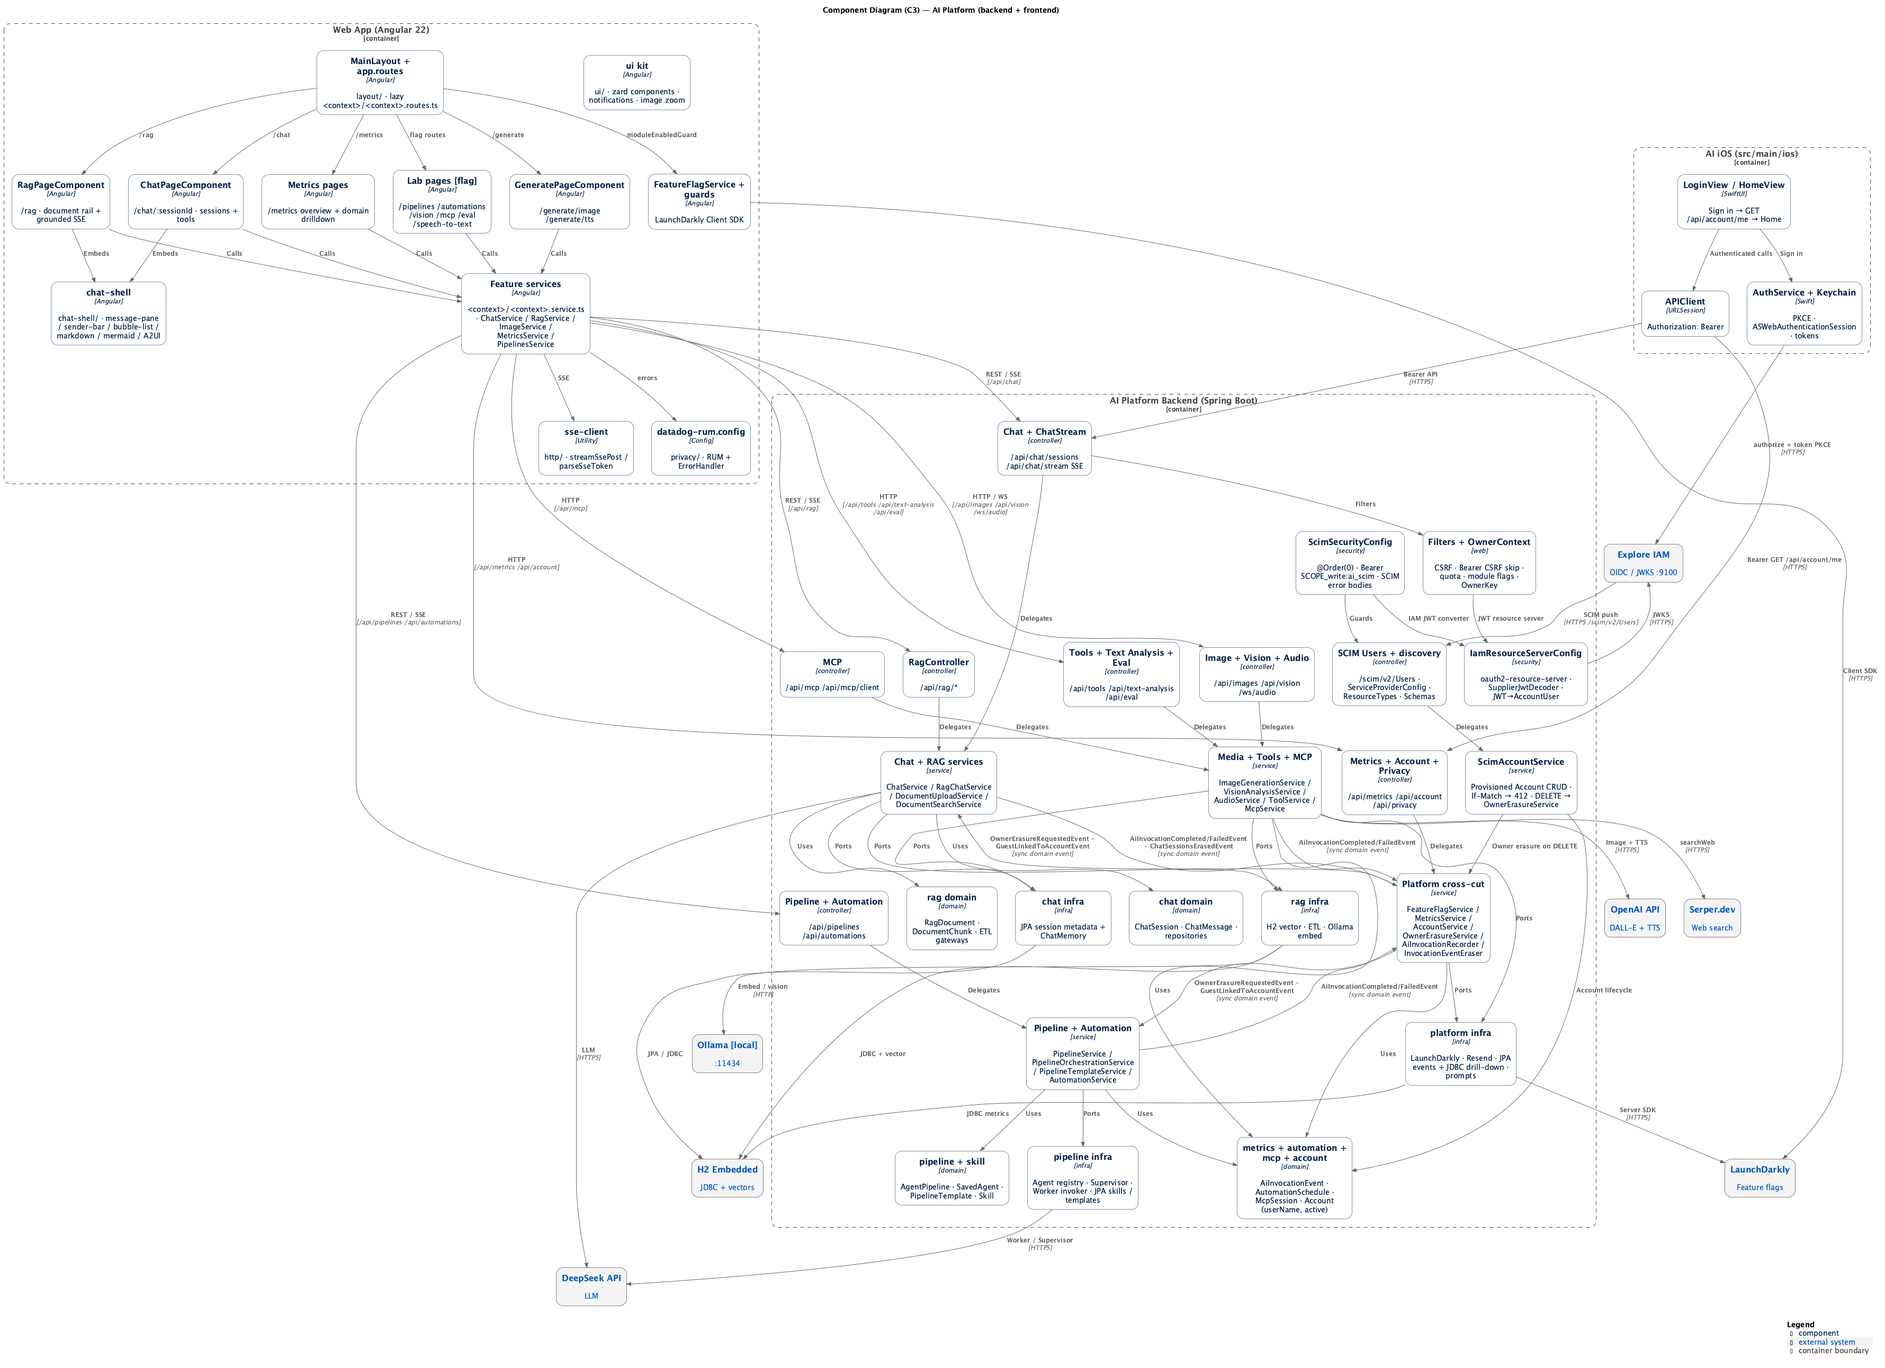
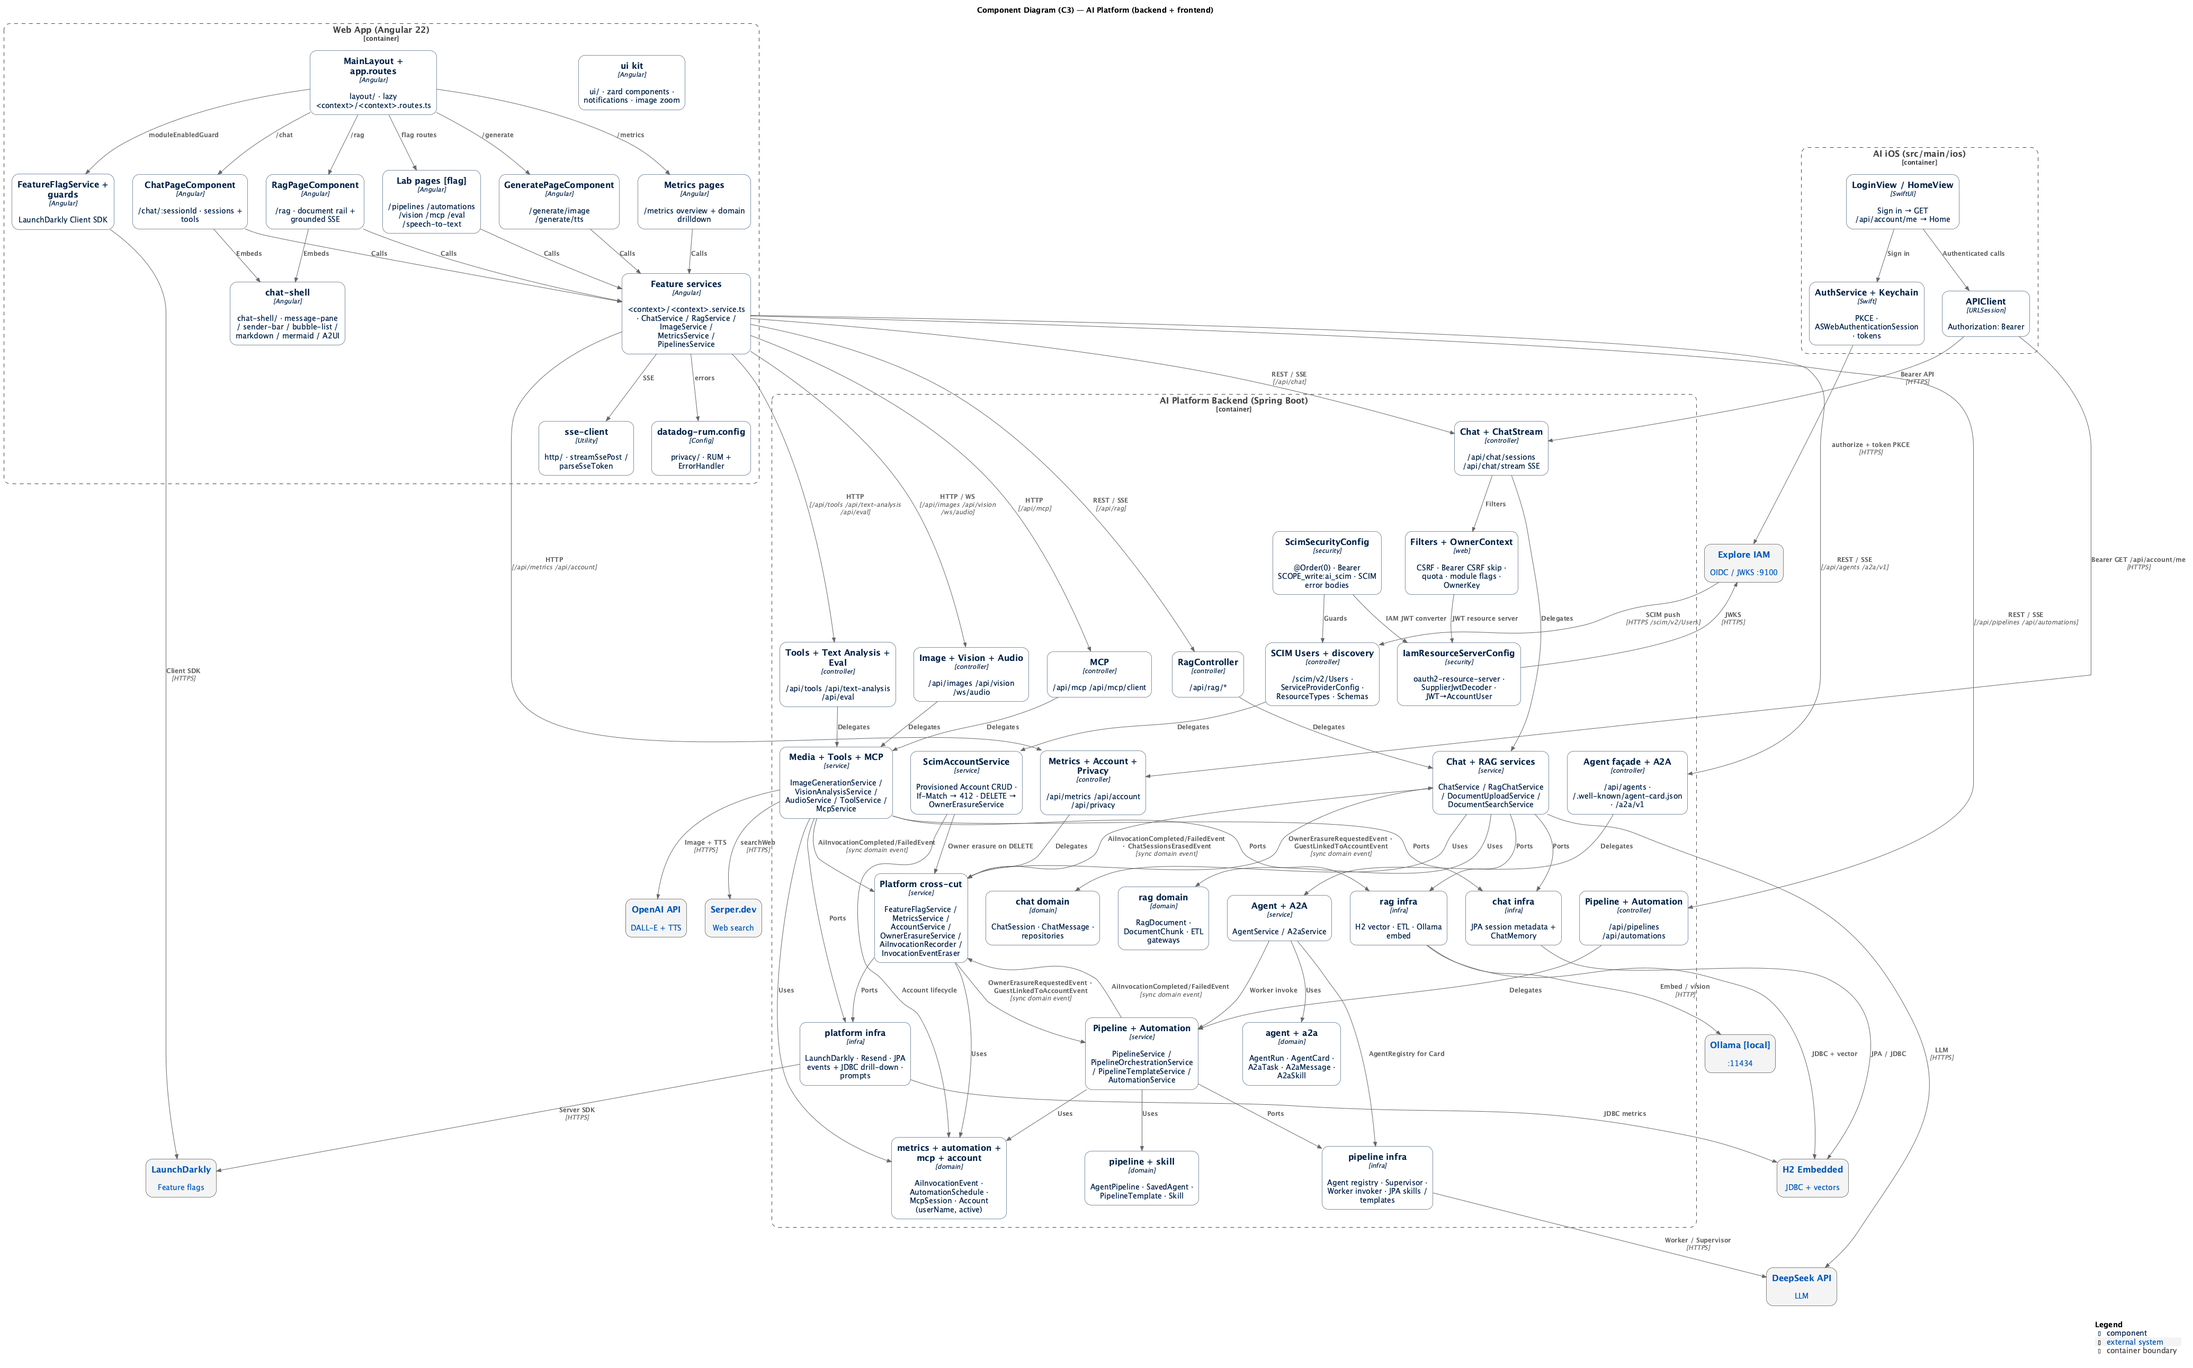
Document baseline Agents and A2A living docs (#672)
Sibling products need shared Glossary and C4 language for the
Agent façade and A2A Card before runtime APIs land.

References:

- https://a2a-protocol.org/latest/specification/
- https://a2a-protocol.org/latest/topics/what-is-a2a/
- https://c4model.com/

diff --git a/docs/Glossary.md b/docs/Glossary.md
@@ -54,6 +54,8 @@ Classes (entities, value objects, aggregates, services, DTOs) are nouns for what
 | ---------------- | --------- | ----------------- | ----------------------- | ----------------------------------------- | ----------------------------- | ------------------------------------- |
 | Chat             | 对话        | `com.ai.chat`     | `/chat`, `/privacy`     | `/api/chat`, `/api/chat/sessions`, `/api/privacy` | —                             | UI under `app/chat/` + `app/privacy/`  |
 | Pipeline         | 工作流画布      | `com.ai.pipeline` | `/pipelines`            | `/api/pipelines`                          | `module-pipelines`            | Canvas DAG; per-node editable agent copies; multilingual builtin catalog |
+| Agent            | Agent 门面     | `com.ai.agent`    | —                       | `/api/agents`                             | `module-pipelines`            | Published Language for siblings; delegates to Pipeline workers; default type `research` |
+| A2A              | Agent2Agent    | `com.ai.a2a`      | —                       | `/.well-known/agent-card.json`, `/a2a/v1` | `module-pipelines`            | Minimal A2A Server (Agent Card + message:send / message:stream); peer to MCP |
 | Automation       | 定时自动化      | `com.ai.automation` | `/automations`        | `/api/automations`                        | `module-automations`          | Schedule saved workflows; email result summary |
 | Skill            | 技能指令包    | `com.ai.skill`    | `/skills`               | `/api/skills`                             | `module-skills`               | User-managed packs applied in Chat    |
 | RAG              | 知识问答      | `com.ai.rag`      | `/rag`                  | `/api/rag`                                | —                             | ETL interfaces in `domain.repository` |
@@ -79,6 +81,8 @@ Classes (entities, value objects, aggregates, services, DTOs) are nouns for what
 | ----------------- | ---------------- | ------------------------------- |
 | `/chat`, `/chat/:sessionId` | Chat      | `/api/chat`, `/api/chat/sessions`    |
 | `/pipelines`      | Pipeline         | `/api/pipelines`                |
+| —                 | Agent            | `/api/agents`                   |
+| —                 | A2A              | `/.well-known/agent-card.json`, `/a2a/v1` |
 | `/automations`    | Automation       | `/api/automations`              |
 | `/skills`         | Skill            | `/api/skills`                   |
 | `/generate`       | Generation       | —                               |
@@ -243,6 +247,8 @@ Shared persistence and aggregate bases. Feature modules inherit these types inst
 | Pipeline Orchestration   | 编排服务          | Runs Worker Agents according to a routing or pipeline plan    | Application Service | `PipelineOrchestrationService`                | Prefers node snapshot prompt/tools when present         |
 | Supervisor Router        | Supervisor 路由 | Chooses next Agent / subtasks for a user message              | Application    | `SupervisorRouter`, `SpringAiSupervisorRouter`     | Workers exclude supervisor               |
 | Worker Agent Invoker     | Worker 调用器    | Invokes a single Worker Agent with streaming                  | Application    | `WorkerAgentInvoker.invokeAgent`, `SpringAiWorkerAgentInvoker` | Tools from the `tools` whitelist                |
+| Agent Service            | Agent 门面服务   | Sibling-facing list and invoke for catalog Agent types        | Application    | `AgentService` (`com.ai.agent`)                    | Wraps Pipeline workers; no canvas graph required |
+| Default Agent Type       | 默认 Agent 类型  | Catalog type used when A2A skill is omitted                   | Convention     | `research`                                         | Documented for A2A Task mapping                 |
 | Tool Call Markup Filter  | 工具标记过滤器   | Strips DeepSeek DSML tool markup from model text              | Utility        | `ToolCallMarkupFilter`, `SanitizingChatMemory`     | Chat SSE, ChatMemory, Pipeline workers             |
 | Tool Call Loop Guard     | 工具循环守卫     | Allows datetime bridge then forces final answer after search; repairs DSML-only turns | Utility        | `ToolCallLoopGuard`, `ToolCallLoopGuardAdvisor`, `LoopGuardToolCallingManager` | Prevents DSML / phantom fetch after searchWeb   |
 | Routing Plan             | 路由计划          | Planned subtasks for Supervisor orchestration                 | Value Object   | `RoutingPlan`                                      | —                                               |
@@ -393,7 +399,7 @@ PROCESSING → READY
 
 ## 10. MCP | MCP
 
-Package: `com.ai.mcp` (Server + Client).
+Package: `com.ai.mcp` (Server + Client). MCP connects **one** Agent to tools and resources. Cross-agent collaboration uses **A2A** (§10.1), not MCP.
 
 
 | Preferred Term (English) | 中文        | Definition                                    | Type              | Code Mapping                         | Notes                          |
@@ -405,6 +411,22 @@ Package: `com.ai.mcp` (Server + Client).
 | MCP Session              | MCP 会话    | Active connection session to an MCP server    | Entity            | `McpSession`                         | Held by the MCP client in infra |
 | MCP Server Connection    | MCP 服务端连接 | Connection metadata to an external MCP server | Value Object      | `McpServerConnection`                | —                              |
 | MCP Chat                 | MCP 对话    | AI conversation initiated via MCP Client      | Use Case Behavior | `McpClientController.chat()`         | —                              |
+
+
+### 10.1 A2A | Agent2Agent
+
+Package: `com.ai.a2a`. Linux Foundation Agent2Agent Protocol v1.0 — peer to MCP. Opaque execution: Card declares skills only; tools and system prompts stay inside Explore AI.
+
+
+| Preferred Term (English) | 中文           | Definition                                                         | Type           | Code Mapping                                      | Notes |
+| ------------------------ | ------------ | ------------------------------------------------------------------ | -------------- | ------------------------------------------------- | ----- |
+| A2A Server               | A2A 服务端      | Serves Agent Card and message APIs for other agents                | Application    | `A2aService`, `A2aMessageController`              | HTTP+JSON binding |
+| Agent Card               | Agent 名片     | Self-describing manifest of name, skills, interfaces, security     | Value Object   | `AgentCard`                                       | `GET /.well-known/agent-card.json` (public) |
+| A2A Skill                | A2A 技能       | Declared capability on the Card; id maps to catalog Agent Type     | Value Object   | `A2aSkill`                                        | e.g. id `research` |
+| A2A Task                 | A2A 任务       | One baseline Agent run with status lifecycle                       | Entity         | `A2aTask`                                         | submitted → working → completed / failed |
+| A2A Message              | A2A 消息       | User or agent message with text (and optional) parts               | Value Object   | `A2aMessage`                                      | Text parts → Agent invoke message |
+| Send Message             | 发送消息         | Synchronous Task completion for one message                        | Use Case       | `POST /a2a/v1/message:send`                       | IAM Bearer required |
+| Stream Message           | 流式发送消息       | SSE Task status and artifact updates for one message               | Use Case       | `POST /a2a/v1/message:stream`                     | IAM Bearer required |
 
 
 ---
@@ -534,7 +556,8 @@ UI shell only (no dedicated Java package). Routes under `/generate` host **Image
 | Tool Callback                        | 工具回调    | Spring AI mechanism for LLM-initiated tool invocation      | Technical | `ToolCallback`, `McpToolCallbackRegistry`     | Bridges LLM and Tools               |
 | Advisor                              | 顾问      | Interceptor/enhancer in the ChatClient call chain          | Technical | Spring AI Advisors                            | e.g. structured output              |
 | Multimodal                           | 多模态     | Input combining text and other modalities (e.g. image)     | Technical | `VisionChatService`                           | Ollama qwen3.5 / qwen3-vl; see Appendix D **Vision Encoder** |
-| Model Context Protocol (MCP)         | 模型上下文协议 | Standard protocol for exposing Tools and Resources to LLMs | Protocol  | `McpServerToolsProvider`                          | Anthropic-initiated standard        |
+| Model Context Protocol (MCP)         | 模型上下文协议 | Standard protocol for exposing Tools and Resources to LLMs | Protocol  | `McpServerToolsProvider`                          | Anthropic-initiated standard; peer to A2A |
+| Agent2Agent Protocol (A2A)           | Agent 互操作协议 | Open standard for discovery and task messaging between opaque agents | Protocol | `com.ai.a2a` | Linux Foundation; Agent Card + Tasks |
 | Orchestrator                         | 编排器     | Agent that delegates tasks to specialized Subagents        | Pattern   | `.cursor/agents/orchestrator.md`              | Cursor agent routing (dev tooling)  |
 | Subagent                             | 子智能体    | Specialized Agent focused on a single responsibility       | Pattern   | `.cursor/agents/*.md`                         | e.g. business-analyst, market-analyst, developer |
 | Grounding                            | 事实锚定    | Constraining LLM answers to retrieved Source Documents     | Pattern   | `LocalizedRagPromptBuilder`, `RagChatService` | Reduces unsupported claims          |

diff --git a/docs/developer/c4-model/README.md b/docs/developer/c4-model/README.md
@@ -29,6 +29,7 @@ Source of truth: `.puml`。官方 C4: [c4model.com](https://c4model.com/)。库:
 | `C4-Dynamic-Chat-Tools.puml` | Dynamic | Chat 工具 SSE + A2UI 图表 |
 | `C4-Dynamic-IamNativeSignIn.puml` | Dynamic | AI iOS PKCE → IAM → Bearer `/api/account/me` → Home |
 | `C4-Dynamic-ScimProvisioning.puml` | Dynamic | Explore IAM → `/scim/v2/Users`（`write:ai_scim`）→ Account 生命周期 + 删除擦除 |
+| `C4-Dynamic-A2aMessage.puml` | Dynamic | A2A Client → Agent Card → `message:send` / `stream` → AgentService → Worker |
 
 > **Code vs Deployment**：C4 官方第 4 层是 **Code**（类与关系）。本仓 `C4-Deployment.puml` 是部署视图；领域类型总览见 `C4-Code-Domain-Model.puml`。图中 stereotype 表示约定，**没有**共享 Java `Entity`/`AggregateRoot` 基类。
 
@@ -88,8 +89,11 @@ Source of truth: `.puml`。官方 C4: [c4model.com](https://c4model.com/)。库:
 | [C4-Dynamic-Chat-Tools.puml](C4-Dynamic-Chat-Tools.puml) | Chat 工具调用 → SSE → A2UI 图表 |
 | [C4-Dynamic-IamNativeSignIn.puml](C4-Dynamic-IamNativeSignIn.puml) | AI iOS IAM PKCE 登录 → Bearer me → Home |
 | [C4-Dynamic-ScimProvisioning.puml](C4-Dynamic-ScimProvisioning.puml) | Explore IAM SCIM 推送 → `write:ai_scim` → 创建 / 替换 / 停用 / 删除并擦除 Account |
+| [C4-Dynamic-A2aMessage.puml](C4-Dynamic-A2aMessage.puml) | A2A Agent Card 发现 → IAM Bearer → Task → baseline Agent |
 
 ![C4-Dynamic-Rag-Ask](png/C4-Dynamic-Rag-Ask.png)
+
+![C4-Dynamic-A2aMessage](png/C4-Dynamic-A2aMessage.png)
 
 ---
 
@@ -100,7 +104,7 @@ Source of truth: `.puml`。官方 C4: [c4model.com](https://c4model.com/)。库:
 - **运行时**: Spring Boot 4.1 / Java 25 / Spring AI 2.0
 - **架构**: Clean Architecture（`domain/repository/`，非 Hexagonal `domain/port/`）
 - **端口**: dev **9000** / prod **8080** (Render `PORT`)
-- **子域 (13)**: Chat / Pipeline / Skill / RAG / Tools / Text Analysis (`textanalysis`) / Eval / Image / Image Analysis (`vision`) / Audio (TTS+ASR) / MCP Server / MCP Client / Metrics
+- **子域**: Chat / Pipeline / Agent façade / A2A / Skill / RAG / Tools / Text Analysis (`textanalysis`) / Eval / Image / Image Analysis (`vision`) / Audio (TTS+ASR) / MCP Server / MCP Client / Metrics
 - **持久化**: H2 嵌入式（会话元数据 `ChatSessionRepository` + 消息 `JdbcChatMemoryRepository` + 向量 + AI 调用事件 `ai_invocation_event`）
 - **JPA / Hibernate**: 归属聚合继承 `AbstractOwnerAwareEntity`（运行记录与调用事件继承 `AbstractOwnerAwareImmutable`）（`owner_key` NOT NULL，Liquibase `0.1-012` 回填遗留会话为 `c:legacy-orphan`）；领域仓储继承 Spring Data `Repository<T, ID>`，按归属读写以 `OwnerKey` 作为显式查询参数（如 `findByIdAndOwnerKey`），后台任务使用不带归属的查询；类型化 ID 映射原生 UUID 列；`AiInvocationEvent` 为 `@Immutable`；`Account` 以 `@NaturalId`（provider + subject）查找
 - **功能开关**: LaunchDarkly（`ModuleAccessFilter` + `FeatureFlagService`）
@@ -120,6 +124,17 @@ Source of truth: `.puml`。官方 C4: [c4model.com](https://c4model.com/)。库:
 | 画布图 SSE | `POST /api/pipelines/invoke/sse` | `PipelineOrchestrationService`；节点可带 `systemPrompt`/`tools` 快照 |
 
 Worker 定义来自 Pipeline 内置目录：`AgentTemplateCatalog`（`classpath:agent-templates/{lang}.json`）经 `CatalogAgentRegistry` 提供调色板种子；画布双击编辑的是**图内节点副本**。Classpath Agent Skills：`AgentSkillsRuntime`（`com.ai.common`，`app.agent-skills`）。
+
+### Agent façade + A2A（同 `module-pipelines`）
+
+Sibling / 外部 Agent 的 Published Language；不暴露 system prompt。默认 A2A skill / Agent Type：`research`。MCP 仍是工具协议（peer），不是跨 Agent 协议。
+
+| 能力 | API | 主要组件 |
+| --- | --- | --- |
+| 列表 / 详情 | `GET /api/agents`, `GET /api/agents/{type}` | `AgentController`, `AgentService` |
+| 同步 / SSE 调用 | `POST /api/agents/{type}/invoke`, `.../invoke/sse` | 委托 `PipelineService` |
+| Agent Card | `GET /.well-known/agent-card.json` | `AgentCardController`（公开） |
+| A2A Task | `POST /a2a/v1/message:send`, `.../message:stream` | `A2aMessageController`（IAM `write:ai_agent`） |
 
 ### Prompt Catalog（横切）
 

diff --git a/docs/product-owner/user-stories/E13-agent-a2a.md b/docs/product-owner/user-stories/E13-agent-a2a.md
@@ -1,0 +1,60 @@
+# E13 Agent façade + A2A
+
+← [用户故事地图](../User-Story-Map.md)
+
+## 背景
+
+Sibling 产品与外部 Agent 需要调用 Explore AI 的 baseline Agent，而不绑定 Pipeline 画布。Explore AI 提供 Published Language（`/api/agents`）与 Linux Foundation A2A Protocol v1.0 最小服务端（Agent Card + message:send / stream）。MCP 仍用于工具，不是跨 Agent 协议。
+
+---
+
+## US-40 调用 baseline Agent
+
+**As a** 兄弟系统开发者  
+**I want** 通过 `/api/agents` 列出并调用 catalog Agent  
+**So that** 我的产品 BFF 无需嵌入 Pipeline 画布即可获得 reason → tools → reply
+
+### 验收标准
+
+1. **Scenario** 列出 Agent
+   **GIVEN** `module-pipelines` 开启且调用方已认证  
+   **WHEN** `GET /api/agents`  
+   **THEN** 返回 type / name / description / tools（不含 system prompt）
+
+2. **Scenario** 同步调用
+   **GIVEN** catalog 中存在 `research`  
+   **WHEN** `POST /api/agents/research/invoke` 带 `message`  
+   **THEN** 返回该 Agent 的 reply
+
+### 状态
+
+已实现
+
+---
+
+## US-41 A2A Agent Card 与 Task
+
+**As a** 外部 A2A Client  
+**I want** 发现 Agent Card 并用 message:send / stream 运行 Task  
+**So that** 我可以按行业标准与 Explore AI Agents 互操作
+
+### 验收标准
+
+1. **Scenario** 发现
+   **GIVEN** Explore AI 已部署  
+   **WHEN** `GET /.well-known/agent-card.json`  
+   **THEN** 返回 skills（builtin workers）与 HTTP+JSON 接口，不含 PII / system prompt
+
+2. **Scenario** 发送消息
+   **GIVEN** 有效 IAM Bearer（`write:ai_agent`）  
+   **WHEN** `POST /a2a/v1/message:send` 带 text parts  
+   **THEN** 返回 completed Task（默认 skill `research`）或 failed Task
+
+### 状态
+
+已实现
+
+## 参考
+
+- https://a2a-protocol.org/latest/specification/
+- [Glossary §10.1 A2A](../../Glossary.md)

diff --git a/docs/product-owner/User-Story-Map.md b/docs/product-owner/User-Story-Map.md
@@ -152,6 +152,7 @@ journey
 | E9 企业与未来 | [E9-enterprise-future.md](./user-stories/E9-enterprise-future.md) | US-23 – US-29；US-27a 已实现 | 规划中（US-27a 已实现） |
 | E10 Skills | [E10-skills.md](./user-stories/E10-skills.md) | US-30 – US-31, US-35 | 已实现 |
 | E12 SCIM 用户同步 | [E12-scim-provisioning.md](./user-stories/E12-scim-provisioning.md) | US-37 – US-38 | 已实现 |
+| E13 Agent façade + A2A | [E13-agent-a2a.md](./user-stories/E13-agent-a2a.md) | US-40 – US-41 | 已实现 |
 
 ## 参考
 
